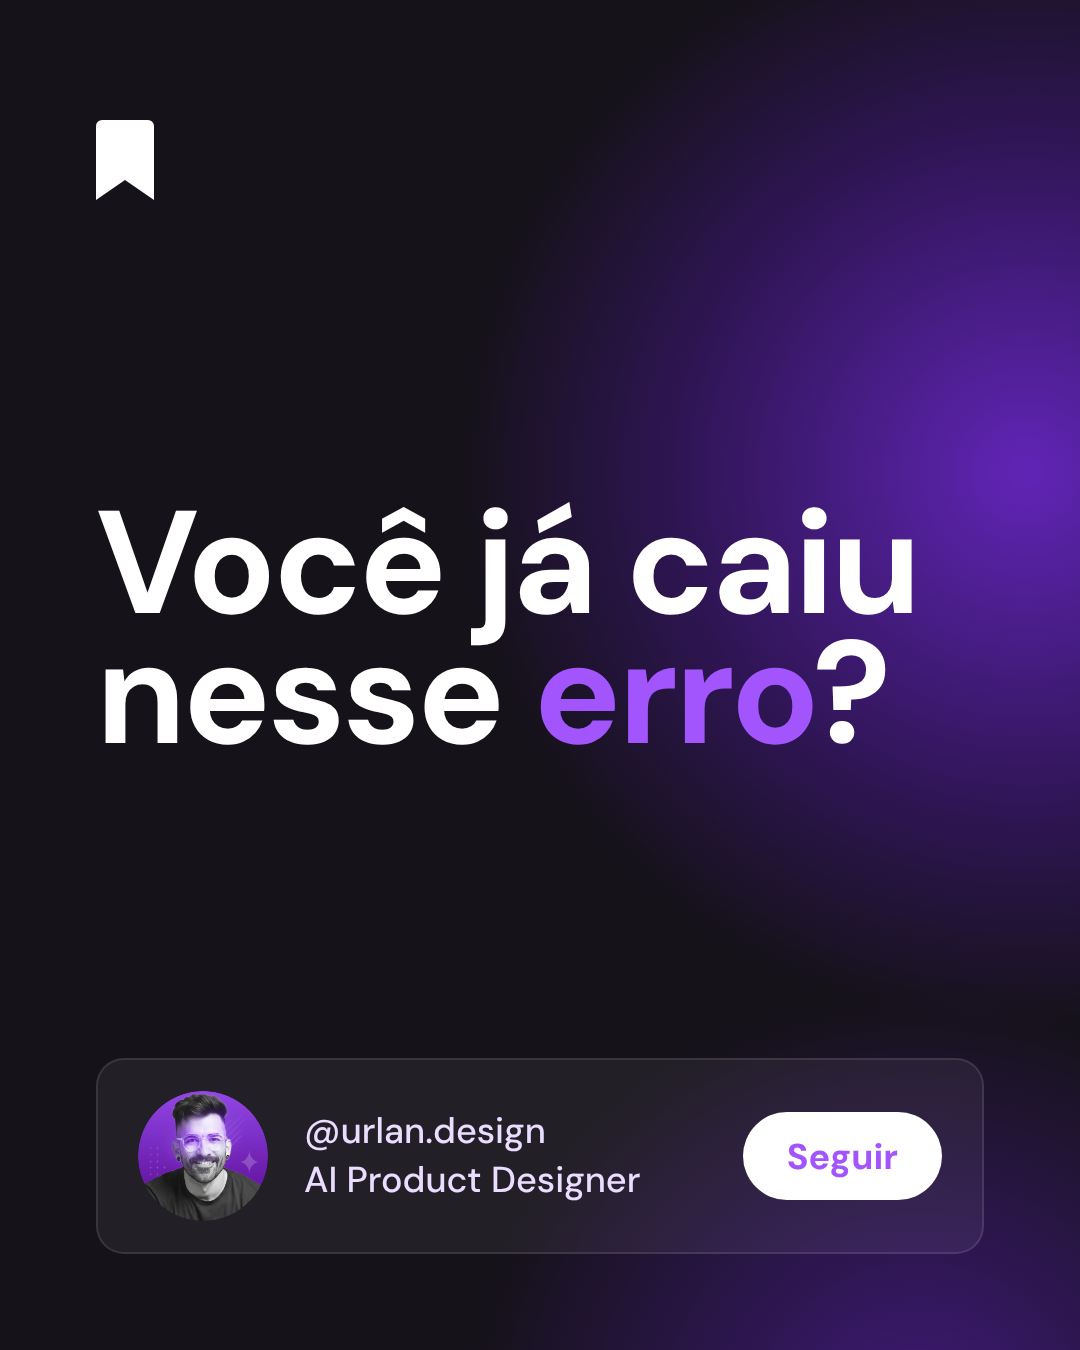
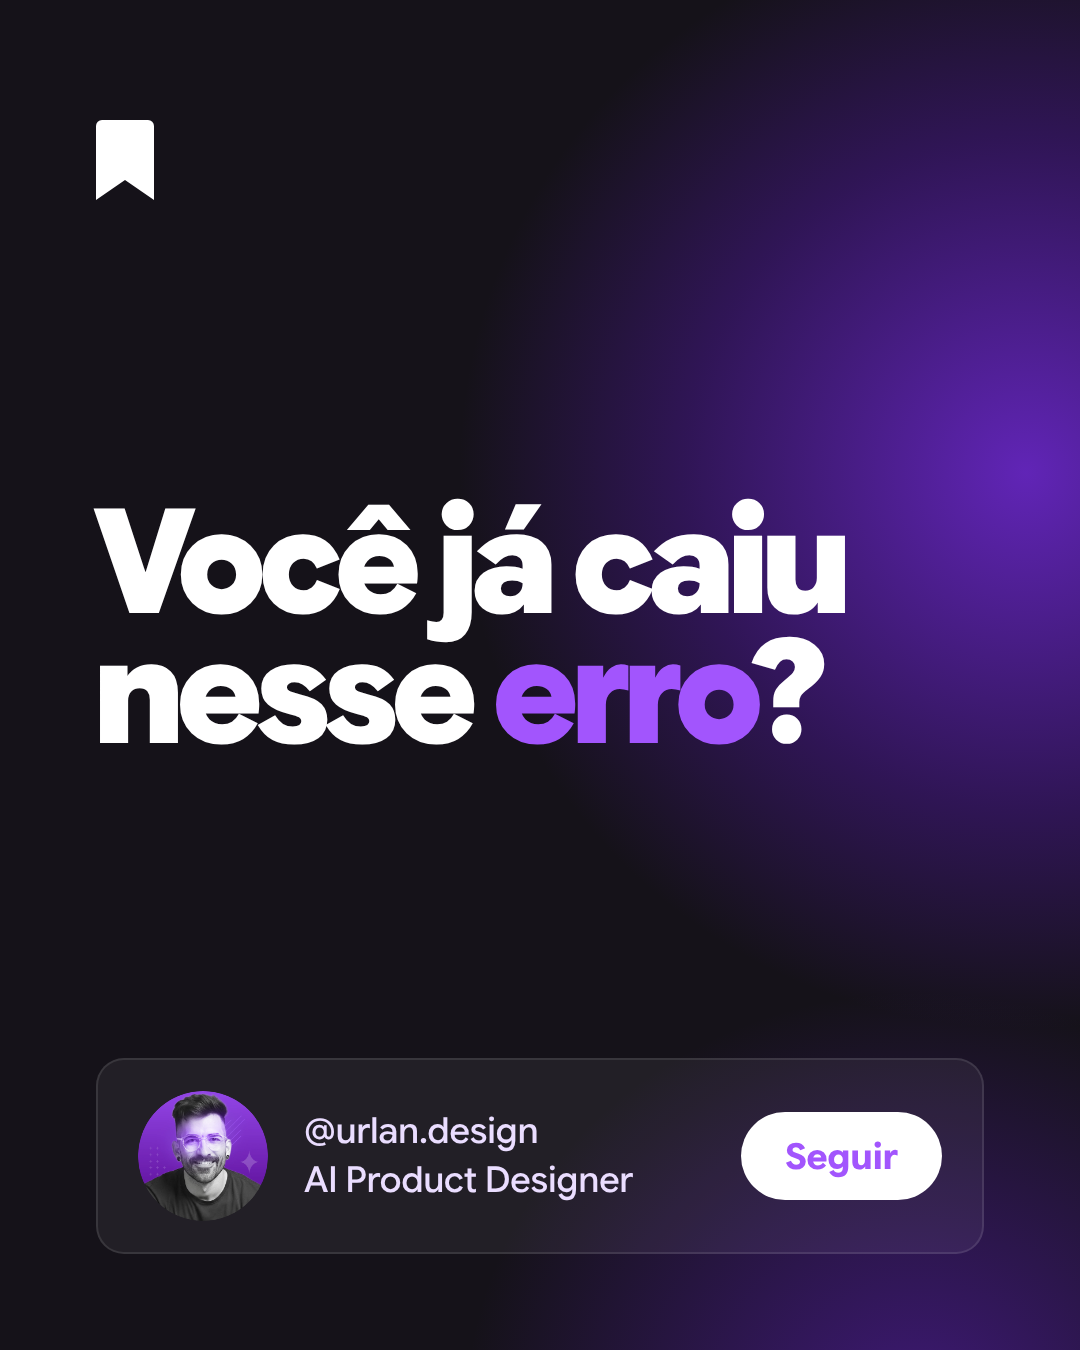
Fechamento oficial em Google Sans Flex 800
Acompanha o peso dos slides de conteúdo. Também carrega a DM Sans 800/900
no render.py, que faltavam.

Claude-Session: https://claude.ai/code/session_01QSS2xpnkFBbnikEFrmQ9em

Changed region(s): [[0.0917, 0.3733, 0.8556, 0.56], [0.275, 0.8089, 0.5806, 0.9022], [0.7333, 0.84, 0.825, 0.8711]]

diff --git a/template/render.py b/template/render.py
@@ -28,7 +28,7 @@ def font_faces():
     css = []
     latin = "U+0000-00FF,U+0131,U+0152-0153,U+02BB-02BC,U+02C6,U+02DA,U+02DC,U+2000-206F,U+2074,U+20AC,U+2122,U+2191,U+2193,U+2212,U+2215,U+FEFF,U+FFFD"
     ext = "U+0100-02AF,U+0304,U+0308,U+0329,U+1E00-1E9F,U+1EF2-1EFF,U+2020,U+20A0-20AB,U+20AD-20C0,U+2113,U+2C60-2C7F,U+A720-A7FF"
-    for fam, slug, weights in (("DM Sans", "dm-sans", (500, 700)), ("Inter", "inter", (400, 500))):
+    for fam, slug, weights in (("DM Sans", "dm-sans", (500, 700, 800, 900)), ("Inter", "inter", (400, 500))):
         for w in weights:
             for sub, rng in (("latin", latin), ("latin-ext", ext)):
                 f = TPL / "fonts" / f"{slug}-{sub}-{w}-normal.woff2"
@@ -414,12 +414,12 @@ def closing_oficial(p):
         txt = "<br>".join(rich(l) for l in c["lines"])
     else:
         txt = rich(c["title"])
-    ff = "font-family:'DM Sans',sans-serif !important"
-    return f'''<style>.fo,.fo *{{font-family:'DM Sans',sans-serif !important}}</style><div class="s fo" style="background:#151219">
+    ff = "font-family:'Google Sans Flex',sans-serif !important"
+    return f'''<style>{font_faces()}.fo,.fo *{{font-family:'Google Sans Flex',sans-serif !important}}</style><div class="s fo" style="background:#151219">
   <div style="position:absolute;inset:0;background:radial-gradient(70% 55% at 95% 35%,rgba(110,40,210,.85),rgba(80,25,160,.45) 45%,rgba(21,18,25,0) 75%),radial-gradient(60% 45% at 85% 105%,rgba(90,30,180,.6),rgba(21,18,25,0) 70%)"></div>
   <svg style="position:absolute;left:96px;top:120px" width="58" height="80" viewBox="0 0 58 80"><path d="M6 0h46a6 6 0 0 1 6 6v74L29 60 0 80V6a6 6 0 0 1 6-6z" fill="#fff"/></svg>
   <div style="position:absolute;left:96px;right:80px;top:200px;height:858px;display:flex;align-items:center">
-    <div style="{ff};color:#fff;font-weight:{c.get("weight", 900)};font-size:{c.get("size", 146)}px;line-height:0.89;letter-spacing:-3px">{txt}</div></div>
+    <div style="{ff};color:#fff;font-weight:{c.get("weight", 800)};font-size:{c.get("size", 146)}px;line-height:0.89;letter-spacing:-3px">{txt}</div></div>
   <div style="position:absolute;left:96px;right:96px;bottom:96px;height:196px;border-radius:28px;background:rgba(255,255,255,.06);border:2px solid rgba(255,255,255,.10);display:flex;align-items:center;padding:0 40px;gap:36px;box-sizing:border-box">
     <img src="{av}" style="width:130px;height:130px;border-radius:50%;object-fit:cover">
     <div style="{ff};flex:1;color:#EADDFF;font-weight:500;font-size:36px;line-height:1.35">@urlan.design<br>AI Product Designer</div>

diff --git a/REGRAS.md b/REGRAS.md
@@ -14,7 +14,7 @@ Todo post novo usa um destes quatro templates, escolhido pelo tipo de post. Exem
 | Paleta de cores | **Combos** | `combos` | `python3 template/combos.py <pasta>` |
 
 - **Capa:** sempre a capa "série" (seção "Capas: referência fixa"), em `slide-01.png`, com `cover_override` no post.json.
-- **Fechamento:** um só para todos os templates, o do Combos: fundo escuro com brilho roxo, ícone de salvar, título grande e card de perfil. No post.json: `"closing": {"lines": ["Você já caiu", "nesse **erro**?"]}`. O fechamento não tem texto de apoio; o complemento da CTA vai na legenda.
+- **Fechamento:** um só para todos os templates, o do Combos: fundo escuro com brilho roxo, ícone de salvar, título grande e card de perfil, tudo em Google Sans Flex 800 (decisão de 27/11/2026, pra acompanhar o peso dos slides de conteúdo). No post.json: `"closing": {"lines": ["Você já caiu", "nesse **erro**?"]}`. O fechamento não tem texto de apoio; o complemento da CTA vai na legenda.
 - **Aposentados:** Padrão roxo, Padrão claro e Alternado. Ficam só para refazer posts antigos (`"legado": true` no post.json). O `render.py` recusa esses estilos em post novo.
 - Mudança de template, fechamento ou capa se faz no código do template e vale para todos. Não criar estilo novo por post.
 
